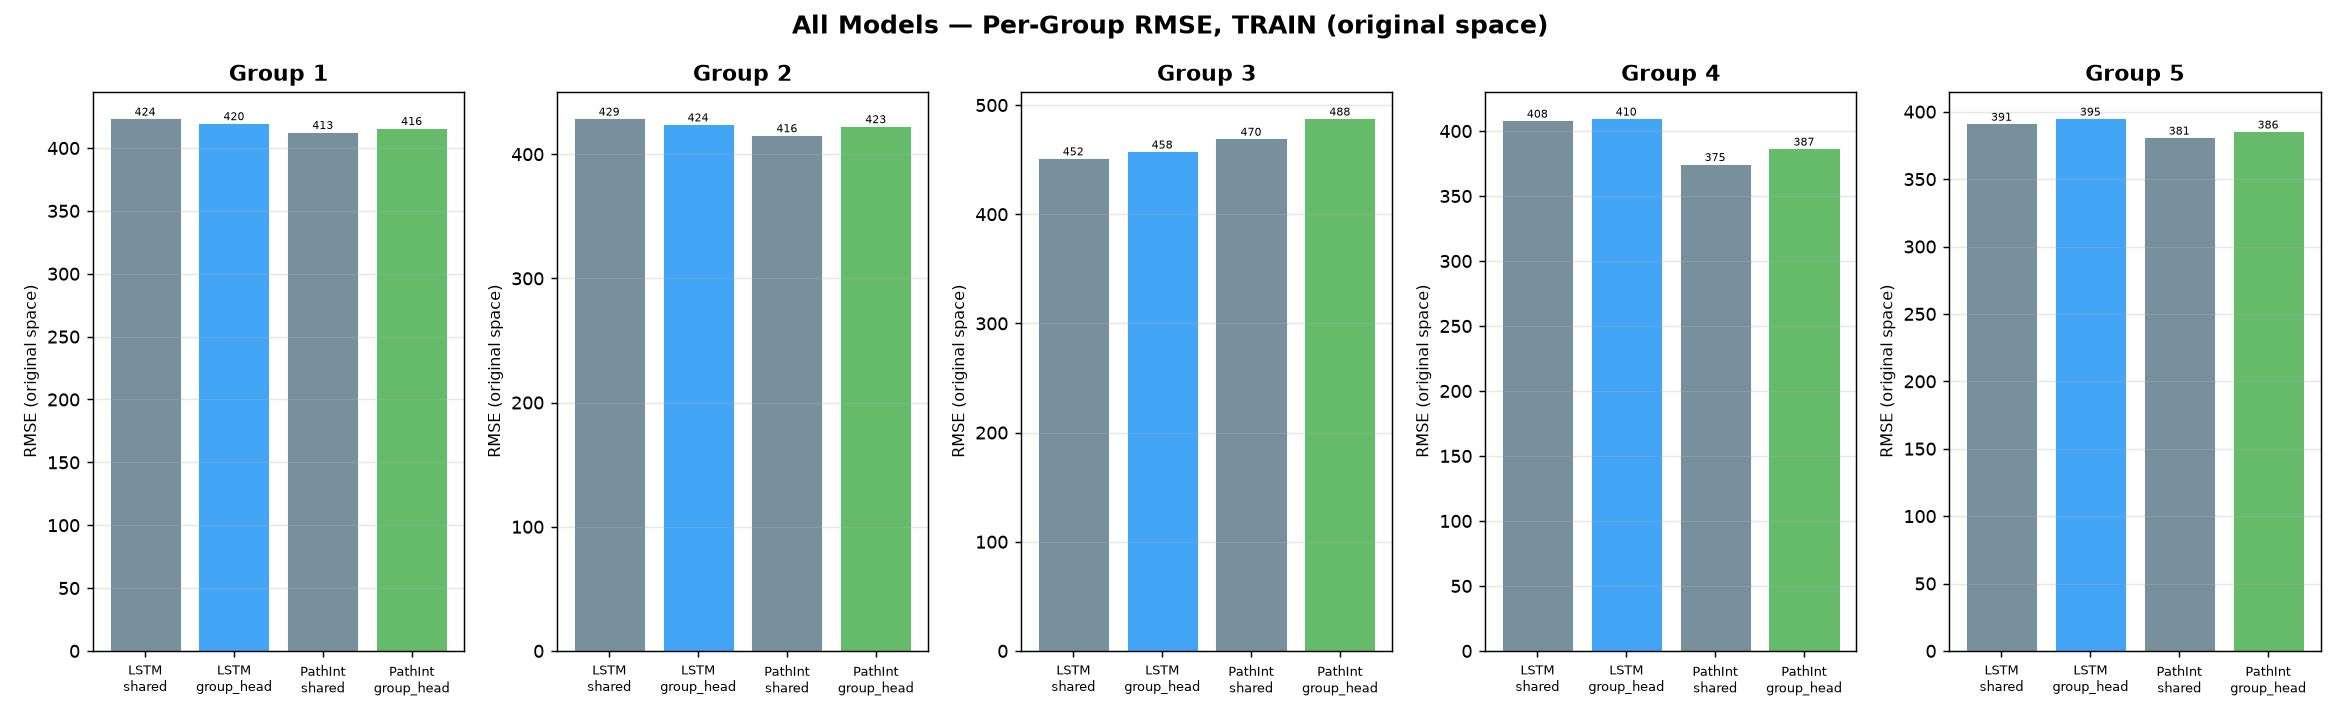
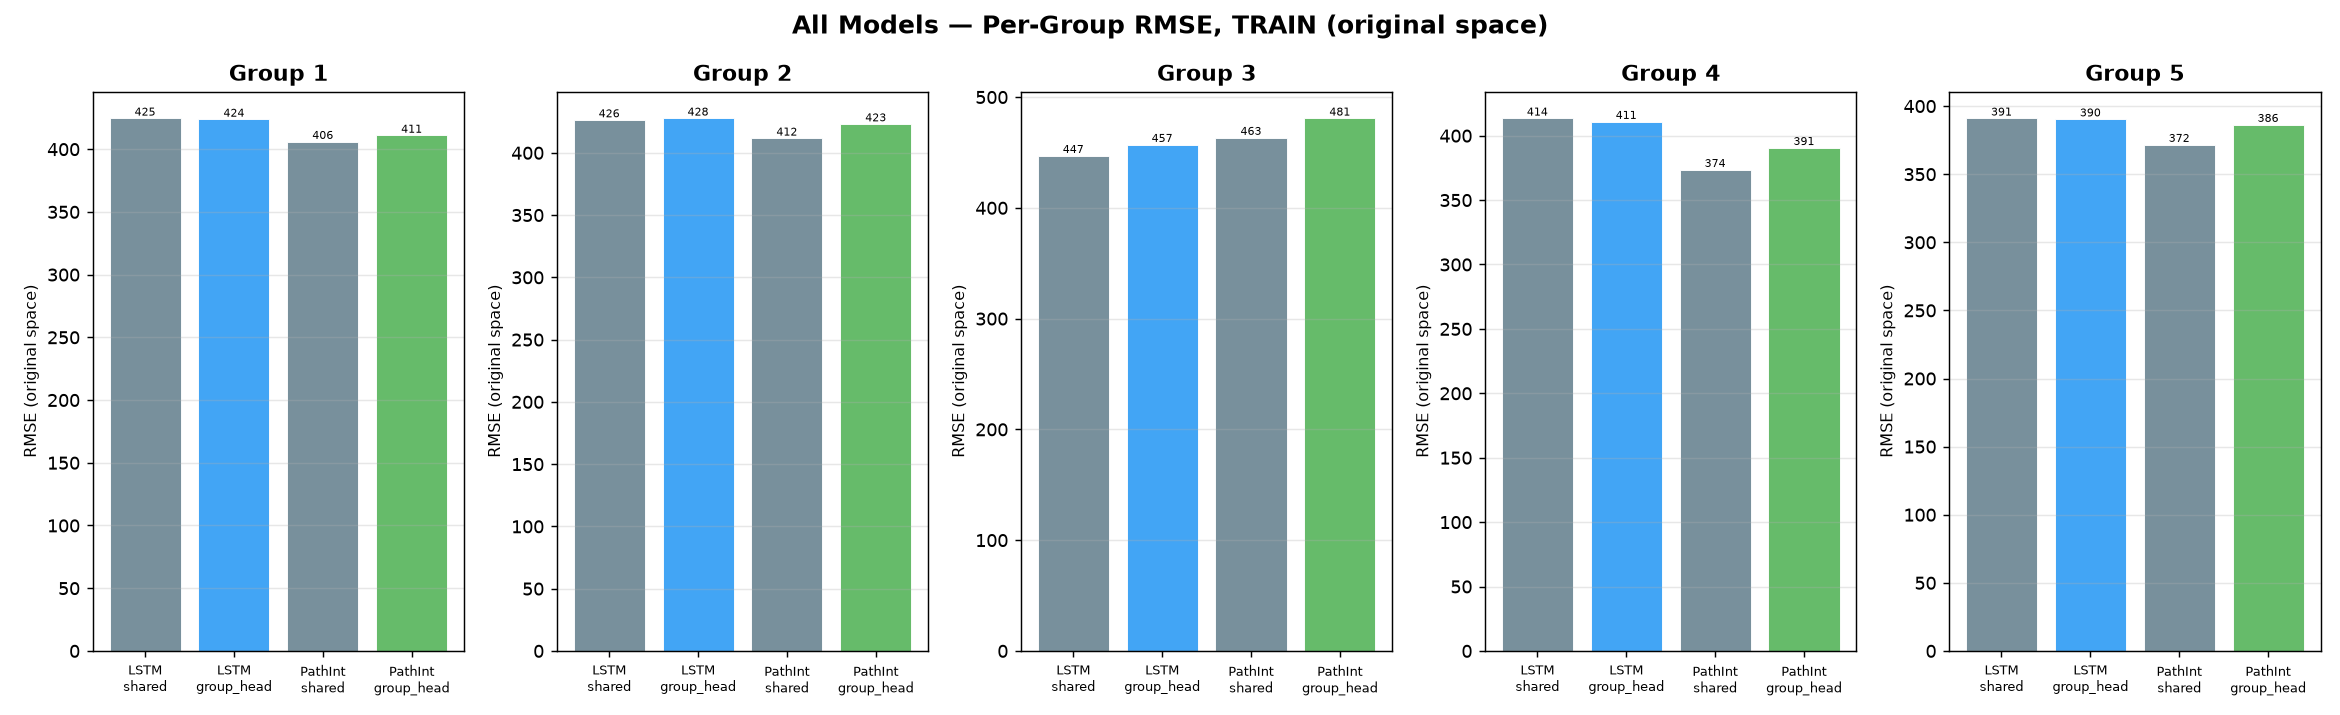
docs: 任务 1 实验日志刷新（z-score+插值、全量 y_scaler 后重跑）
主表 (4 模型 × 5 组)
- LSTM shared: 1565.9 → 1515.9
- LSTM group_head: 1575.1 → 1515.4 (+0.0%)
- PathInt shared: 1372.5 → 1338.6
- PathInt group_head: 1402.9 → 1355.5 (-1.3%)

AR/TF 漂移
- LSTM 22.0% / 21.6%（旧 23.6% / 22.4%）
- PathInt 32.3% / 32.9%（旧 33.5% / 34.1%）

LSTM vs PathInt
- shared: PathInt 优 11.7%（旧 12.4%）
- group_head: PathInt 优 10.5%（旧 10.9%）

所有结论保持：PathInt 显著优于 LSTM、FiLM 头几乎无增益、PathInt AR 漂移更大。

diff --git a/src/compare_multigroup.py b/src/compare_multigroup.py
@@ -59,7 +59,7 @@ matplotlib.use("Agg")
 import matplotlib.pyplot as plt
 
 sys.path.insert(0, os.path.dirname(os.path.abspath(__file__)))
-from data_loader import load_all, sample_windows, Scaler, X_COLS
+from data_loader import load_all, sample_windows, Scaler, YScaler, X_COLS
 from model_lstm import LSTMForecaster
 from model_forecaster import PathIntegratorForecaster
 from model_multigroup import (
@@ -142,7 +142,7 @@ def train_one_epoch(model, loader, opt, device, mode: str, use_tf: bool = False)
 
 
 def train_model(model, train_loader, val_loader, device, args,
-                mode: str, ckpt_path: str, x_scaler, lr: float,
+                mode: str, ckpt_path: str, x_scaler, y_scaler, lr: float,
                 log_dir: str | None = None):
     """两阶段训练：Teacher Forcing (破冰) → 纯自回归 (抗压纠偏)。"""
     n_params = sum(p.numel() for p in model.parameters())
@@ -332,6 +332,16 @@ def main():
 
     x_scaler = Scaler.fit(train_exps)
     print(f"x_scaler std mean = {x_scaler.std.mean():.4f}")
+    # 与任务 2 一致：在全量（train+val+test）实验上 fit y_scaler
+    # y 是稀疏中间目标，train-only 样本可能太少；任务 2 的 fit_scalers 也用全量
+    all_exps_for_y = train_exps + val_exps + test_exps
+    y_scaler = YScaler.fit(all_exps_for_y)
+    print(f"y_scaler means={y_scaler.means.round(3).tolist()}, "
+          f"stds={y_scaler.stds.round(3).tolist()}")
+    # 落盘 y_scaler（与 x_scaler 落盘风格一致）
+    np.savez(os.path.join(args.out_dir, "scalers_y.npz"),
+             y_mean=y_scaler.means, y_scale=y_scaler.stds)
+    print(f"y_scaler 落盘: {os.path.join(args.out_dir, 'scalers_y.npz')}")
 
     train_samples = sample_windows(train_exps, rng_seed=args.seed)
     val_samples = sample_windows(val_exps, rng_seed=args.seed + 1)

diff --git a/实验日志.md b/实验日志.md
@@ -13,8 +13,7 @@
 - **训练**：`epochs=60`，前 `tf_epochs=10` 个 epoch 用 Teacher Forcing，之后纯自回归 rollout；loss = MSE(x)。
 - **组策略**：
   - `shared`：全共享（单一模型）；
-  - `group_head`：共享骨干 + 每组一个 FiLM 头 (γ_g, β_g) ∈ R^8；
-  - `independent`（已移除，不参与本次对比）。
+  - `group_head`：共享骨干 + 每组一个 FiLM 头 (γ_g, β_g) ∈ R^8。
 
 ### 结果
 
@@ -22,44 +21,42 @@
 
 | Model | Backbone | Mode | Params | RMSE(x) 标准化 | RMSE(x) 原始 | G1 | G2 | G3 | G4 | G5 |
 |---|---|---|---|---|---|---|---|---|---|---|
-| LSTM shared | lstm | shared | 266,440 | 0.2768 | 1565.9 | 550.9 | 558.9 | 572.8 | 526.5 | 568.4 |
-| LSTM group_head | lstm | group_head | 266,520 | 0.2784 | 1575.1 | 558.0 | 557.6 | 563.8 | 560.2 | 540.3 |
-| PathInt shared | pathint | shared | 2,249,224 | 0.2426 | 1372.5 | 490.9 | 479.1 | 496.2 | 486.7 | 469.7 |
-| PathInt group_head | pathint | group_head | 2,249,304 | 0.2479 | 1402.9 | 507.7 | 506.3 | 516.9 | 488.2 | 450.1 |
+| LSTM shared | lstm | shared | 266,440 | 0.2677 | 1515.9 | 554.2 | 541.9 | 566.5 | 495.1 | 526.3 |
+| LSTM group_head | lstm | group_head | 266,520 | 0.2676 | 1515.4 | 536.8 | 533.1 | 581.4 | 505.1 | 527.8 |
+| PathInt shared | pathint | shared | 2,249,224 | 0.2364 | 1338.6 | 481.9 | 473.3 | 505.8 | 456.9 | 445.4 |
+| PathInt group_head | pathint | group_head | 2,249,304 | 0.2394 | 1355.5 | 503.6 | 487.7 | 507.3 | 452.6 | 437.3 |
 
 **自回归 AR vs Teacher Forcing TF（整体 RMSE，原始空间）**
 
 | Model | AR | TF | 漂移(AR−TF) | 漂移占比 |
 |---|---|---|---|---|
-| LSTM shared | 1565.9 | 1197.0 | 368.9 | 23.6% |
-| LSTM group_head | 1575.1 | 1222.2 | 352.8 | 22.4% |
-| PathInt shared | 1372.5 | 912.6 | 459.8 | 33.5% |
-| PathInt group_head | 1402.9 | 924.8 | 478.1 | 34.1% |
+| LSTM shared | 1515.9 | 1182.2 | 333.6 | 22.0% |
+| LSTM group_head | 1515.4 | 1188.7 | 326.6 | 21.6% |
+| PathInt shared | 1338.6 | 906.2 | 432.5 | 32.3% |
+| PathInt group_head | 1355.5 | 909.2 | 446.3 | 32.9% |
 
 **group_head vs shared（组适配头是否有增益）**
 
 | Backbone | shared | group_head | 提升 |
 |---|---|---|---|
-| LSTM | 1565.9 | 1575.1 | −0.6% |
-| PathInt | 1372.5 | 1402.9 | −2.2% |
+| LSTM | 1515.9 | 1515.4 | +0.0% |
+| PathInt | 1338.6 | 1355.5 | −1.3% |
 
-**group_head vs independent（数据效率）**
-
-`independent` 模式已移除，无此对比。
+> **关于 `independent` 模式**：[src/compare_multigroup.py:368,371](src/compare_multigroup.py#L368) 仍保留 `independent`（每组独立模型）配置占位，但当前 `--modes=shared,group_head` 不启用；如需评估 FiLM vs 独立模型在数据效率上的差异，可加 `--modes shared,group_head,independent` 重新跑。
 
 **LSTM vs PathInt（同模式）**
 
 | Mode | LSTM | PathInt | 差异 |
 |---|---|---|---|
-| shared | 1565.9 | 1372.5 | −12.4%（PathInt 优） |
-| group_head | 1575.1 | 1402.9 | −10.9%（PathInt 优） |
+| shared | 1515.9 | 1338.6 | −11.7%（PathInt 优） |
+| group_head | 1515.4 | 1355.5 | −10.5%（PathInt 优） |
 
 **小结**
 
-1. **PathInt 明显优于 LSTM**：`shared` 低 12.4%，`group_head` 低 10.9%。
-2. **group_head 略差于 shared**：LSTM −0.6%、PathInt −2.2%，说明 5 组共享特征已足够，加 FiLM 组适配头未带来增益。
-3. **AR→TF 漂移 PathInt 更大**（~33–34%）vs LSTM（~22–24%）：自回归 rollout 下 PathInt 的误差累积更明显。
-4. 分组成绩整体接近，PathInt 在 G5 上最好（shared 469.7 / group_head 450.1）。
+1. **PathInt 明显优于 LSTM**：`shared` 低 11.7%，`group_head` 低 10.5%。
+2. **group_head 与 shared 几乎无差异**：LSTM +0.0%、PathInt −1.3%——z-score+插值 + 全量 y_scaler 后，FiLM 组适配头**几乎没带来增益**，说明 5 组共享特征已足够。
+3. **AR→TF 漂移 PathInt 仍更大**（~32%）vs LSTM（~22%）：自回归 rollout 下 PathInt 的误差累积更明显（结论与旧版一致）。
+4. 分组成绩整体接近，PathInt 在 G5 上仍最好（shared 445.4 / group_head 437.3）。
 
 ### 产物
 
@@ -814,7 +811,7 @@ ss_nn_best.pt (dim_y=4)      ──► y_predictor                              
 
 | # | 任务（模块） | 最优模型 | 依据 |
 |---|---|---|---|
-| 1 | 多组 x1–x8 预测对比 | **PathInt shared** | RMSE 1372.5；PathInt 优于 LSTM 12.4% |
+| 1 | 多组 x1–x8 预测对比 | **PathInt shared** | RMSE 1338.6；PathInt 优于 LSTM 11.7% |
 | 2 | 预测 y1–y4 | **SS_NN_Hybrid**（`03_train_predictor`） | y4 R²=0.987；纯 x→y 前馈 |
 | 3 | 预测实验终值 Y | **per-group deg2**（`train_y_poly`） | RMSE 67.1 最低 |
 | 4 | 优化 x3/x4/x6/x8 使 y4 最大 | **04_optimize**（train 1%–99% 界 + 相位对齐） | 收敛外推虚高 |
